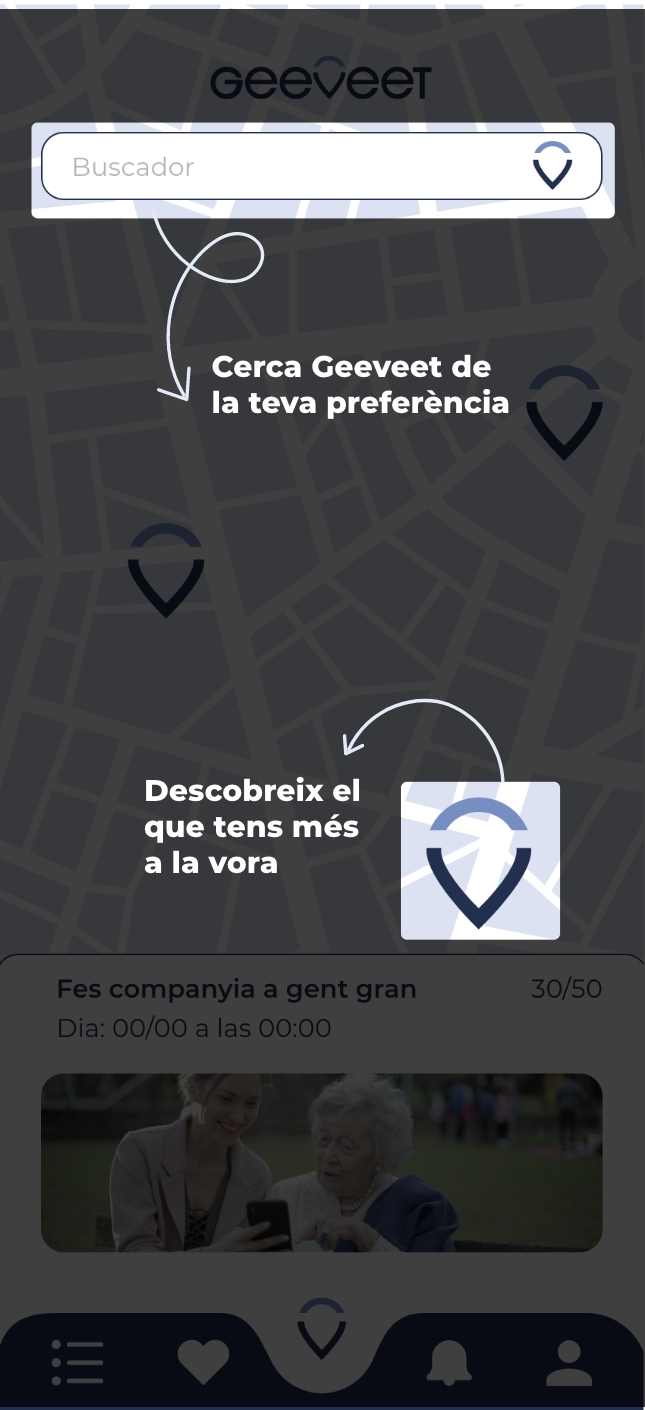
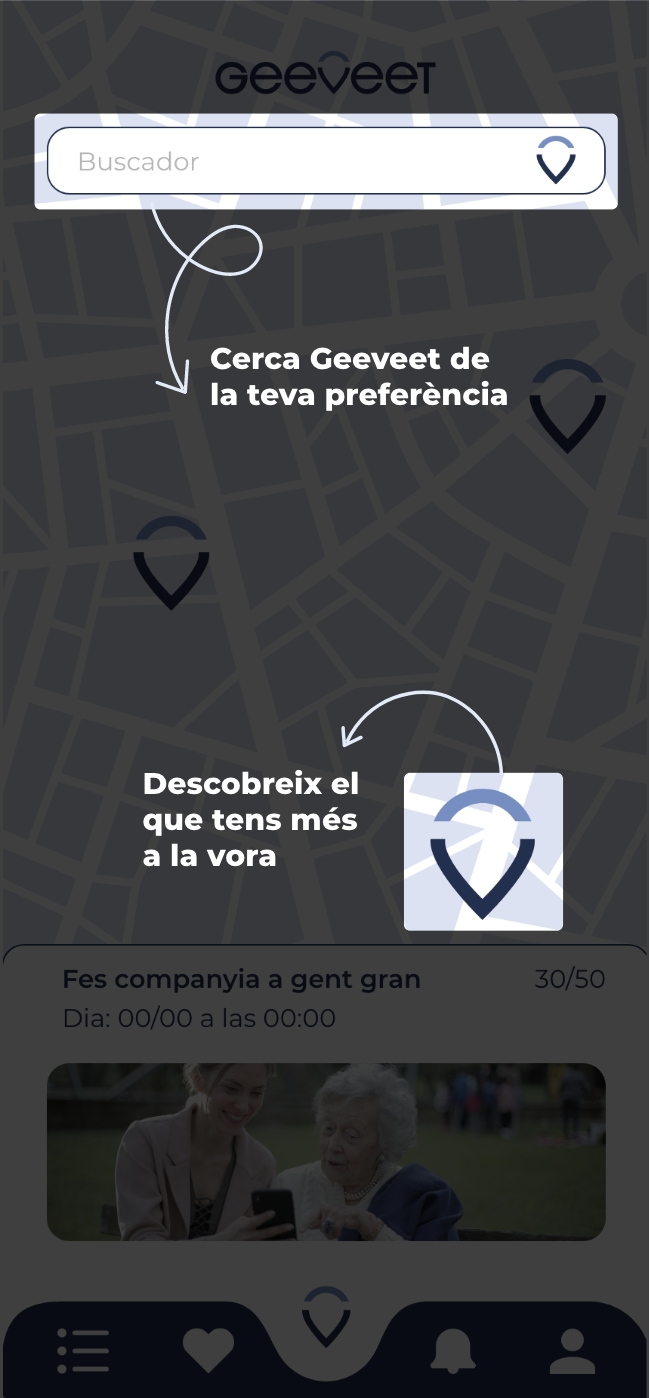
Viernes 18
01

diff --git a/pagina_principal.html b/pagina_principal.html
@@ -17,11 +17,14 @@
     <!-- --------------------- -->
 </head>
 
-<body id="3_2">
+<body>
    
 
     <div class="content">
         <img class="logo" src="img/logo_geeveet.png">
+
+
+        
         <div class="search-container">
             <input type="text" id="searchBox" placeholder="Buscador" onclick="mostrarResultados()">
             <div class="search-results" id="searchResults">
@@ -33,6 +36,19 @@
             </div>
         </div>
     </div>
+
+    <img class="givit one" src="img/geeveet_isotipo.svg" >
+    <img class="givit two" src="img/geeveet_isotipo.svg" >
+    <img class="givit three" src="img/geeveet_isotipo.svg" >
+    <img class="givit four" src="img/geeveet_isotipo.svg" >
+
+    <div class="geeveet_popup">
+        <h2 class="titol_geeveet">Fes companyia a gent gran</h2>
+        <h2 class="dades_geeveet">Dia: 00/00 a les 00:00 </h2>
+        <img class="foto_geeveet" src="img/pexels-olly-3791664.jpg">
+    </div>
+
+
     
     <footer class="menu-barra">
         <div class="icono"><img src="img/icono-16.svg" alt="Icono 1"></div>
@@ -40,7 +56,7 @@
         <div class="icono centro"><img src="img/geeveet_isotipo.svg" alt="Icono 3"></div>
         <div class="icono"><img src="img/icono-19.svg" alt="Icono 4"></div>
         <div class="icono"><img src="img/icono-18.svg" alt="Icono 5"></div>
-      </footer>
+    </footer>
     
    
 
@@ -68,6 +84,28 @@
             document.getElementById("searchResults").style.display = "none";
         }
         });
+
+        const givitImgs = document.querySelectorAll('.givit');
+    const popup = document.querySelector('.geeveet_popup');
+
+    givitImgs.forEach(givit => {
+        givit.addEventListener('click', () => {
+            // Si ya estaba activa → desactiva todo
+            if (givit.classList.contains('activa')) {
+                givit.classList.remove('activa');
+                popup.classList.remove('visible');
+                return;
+            }
+
+            // Desactiva todos
+            givitImgs.forEach(g => g.classList.remove('activa'));
+
+            // Activa el que clicaste
+            givit.classList.add('activa');
+            popup.classList.add('visible');
+        });
+    });
+        
     </script>
 
     <!-- ESTO HACE QUE FUNCIONE LA SELECCION DE BOTONES DE .CATEGORIA

diff --git a/stylegeneral.css b/stylegeneral.css
@@ -4,12 +4,14 @@
     position: relative;
 }
 
+
 body{
     background-color: #E3EAF8;
     color: NAVY;
     font-family: "montserrat", sans-serif;
     background-image: url(img/fondo_mapa.jpg);
     background-repeat: no-repeat;
+    overflow-x: hidden;
 }
 
 /* 
@@ -305,8 +307,8 @@ h2{
     display: none; 
     position: absolute;
     top: 50px; 
-    left: 50%;
-    transform: translateX(-50%); 
+    margin: 0 auto;
+    width: 80%;
     text-decoration: none;
     background-color: white;
     border: 1px solid #ddd;
@@ -322,6 +324,7 @@ h2{
     cursor: pointer;
     font-weight: 500;
     font-style: normal;
+    text-align: left;
 }
   
 .search-results a{
@@ -330,4 +333,83 @@ h2{
   
 .search-results p:hover {
     background-color: #f1f1f1;
+}
+
+
+/* ---------- GEEVEETS --------- */
+
+.geeveet_popup{
+    position: fixed;
+    bottom: 0;
+    left: 0;
+    height: 305px;
+    width: -webkit-fill-available;; /* usar vw en lugar de % */
+    z-index: 10;
+    background-color: white;
+    border-radius: 15px;
+    border-color: #1E2F50;
+    border-style: inset;
+    display: none;
+}
+
+.titol_geeveet{
+    margin: 20px auto auto 45px;
+}
+
+.dades_geeveet{
+    font-family: "montserrat", sans-serif;
+    font-weight: 400;   
+    font-size: 17px;
+    margin: 13px auto auto 45px;
+    color: #1E2F50;
+    
+}
+
+  
+.geeveet_popup .foto_geeveet{
+    height: 110px;
+    width: 80%;
+    margin: 25px auto;
+    border-radius: 10px;
+    object-fit: cover;
+    display: block;
+}
+
+.geeveet_popup.visible{
+    display: block;
+}
+
+.givit{
+    position: fixed;
+    height: 45px;
+    transition: height 0.2s ease;
+}
+
+
+
+.one{
+    left: 320px;
+    top: 220px;
+}
+
+.two{
+    left: 80px;
+    top: 190px;
+}
+
+.three{
+    left: 230px;
+    top: 340px;
+}
+
+.four{
+    left: 160px;
+    top: 490px;
+}
+
+.givit.activa {
+    height: 55px;
+}
+.givit:hover {
+    height: 55px;
 }

diff --git a/style.css b/style.css
@@ -8,6 +8,8 @@ body{
     background-color: #E3EAF8;
     color: NAVY;
     font-family: "montserrat", sans-serif;
+    overflow-x: hidden;
+    width: 100%;
 }
 
 /* 
@@ -215,6 +217,7 @@ footer{
 .formulario_voluntario_motivacion p{
     margin: 13px 20px;
     opacity: 60%;
+    color: #B5B5B5;
 }
 
 .formulario_voluntario p{
@@ -331,4 +334,6 @@ h2{
 .icono.centro {
     transform: translateY(-20px);
 }
+
+
 

diff --git a/voluntari_datos.html b/voluntari_datos.html
@@ -20,7 +20,7 @@
 <body id="3_2">
    
 
-    <a href="mapa_preview.html"><p class="omitir">OMITIR</p></a>
+    <a href="mapa_preview.html"><p class="omitir">OMETRE</p></a>
 
     <div class="content">
 

diff --git a/voluntari_perfil.html b/voluntari_perfil.html
@@ -20,7 +20,7 @@
 <body id="3_1">
    
 
-    <a href="mapa_preview.html"><p class="omitir">OMITIR</p></a>
+    <a href="mapa_preview.html"><p class="omitir">OMETRE</p></a>
 
     <div class="content">
 

diff --git a/voluntari_preferencias.html b/voluntari_preferencias.html
@@ -20,7 +20,7 @@
 <body id="3_2">
    
 
-    <a href="mapa_preview.html"><p class="omitir">OMITIR</p></a>
+    <a href="mapa_preview.html"><p class="omitir">OMETRE</p></a>
 
     <div class="content">
 

diff --git a/entitat_perfil.html b/entitat_perfil.html
@@ -19,7 +19,7 @@
 
 <body id="3_2">
 
-    <a href="mapa_preview.html"><p class="omitir">OMITIR</p></a>
+    <a href="mapa_preview.html"><p class="omitir">OMETRE</p></a>
 
     <div class="content">
 

diff --git a/selecciona_perfil.html b/selecciona_perfil.html
@@ -19,7 +19,7 @@
 
 
 <body id="02">
-    <a href="mapa_preview.html"><p class="omitir">OMITIR</p></a>
+    <a href="mapa_preview.html"><p class="omitir">OMETRE</p></a>
 
     <div class="content">
 

diff --git a/index.html b/index.html
@@ -20,7 +20,7 @@
 
 <body>
 
-    <a href="mapa_preview.html"><p class="omitir">OMITIR</p></a>
+    <a href="mapa_preview.html"><p class="omitir">OMETRE</p></a>
     
     <div class="content">
 
